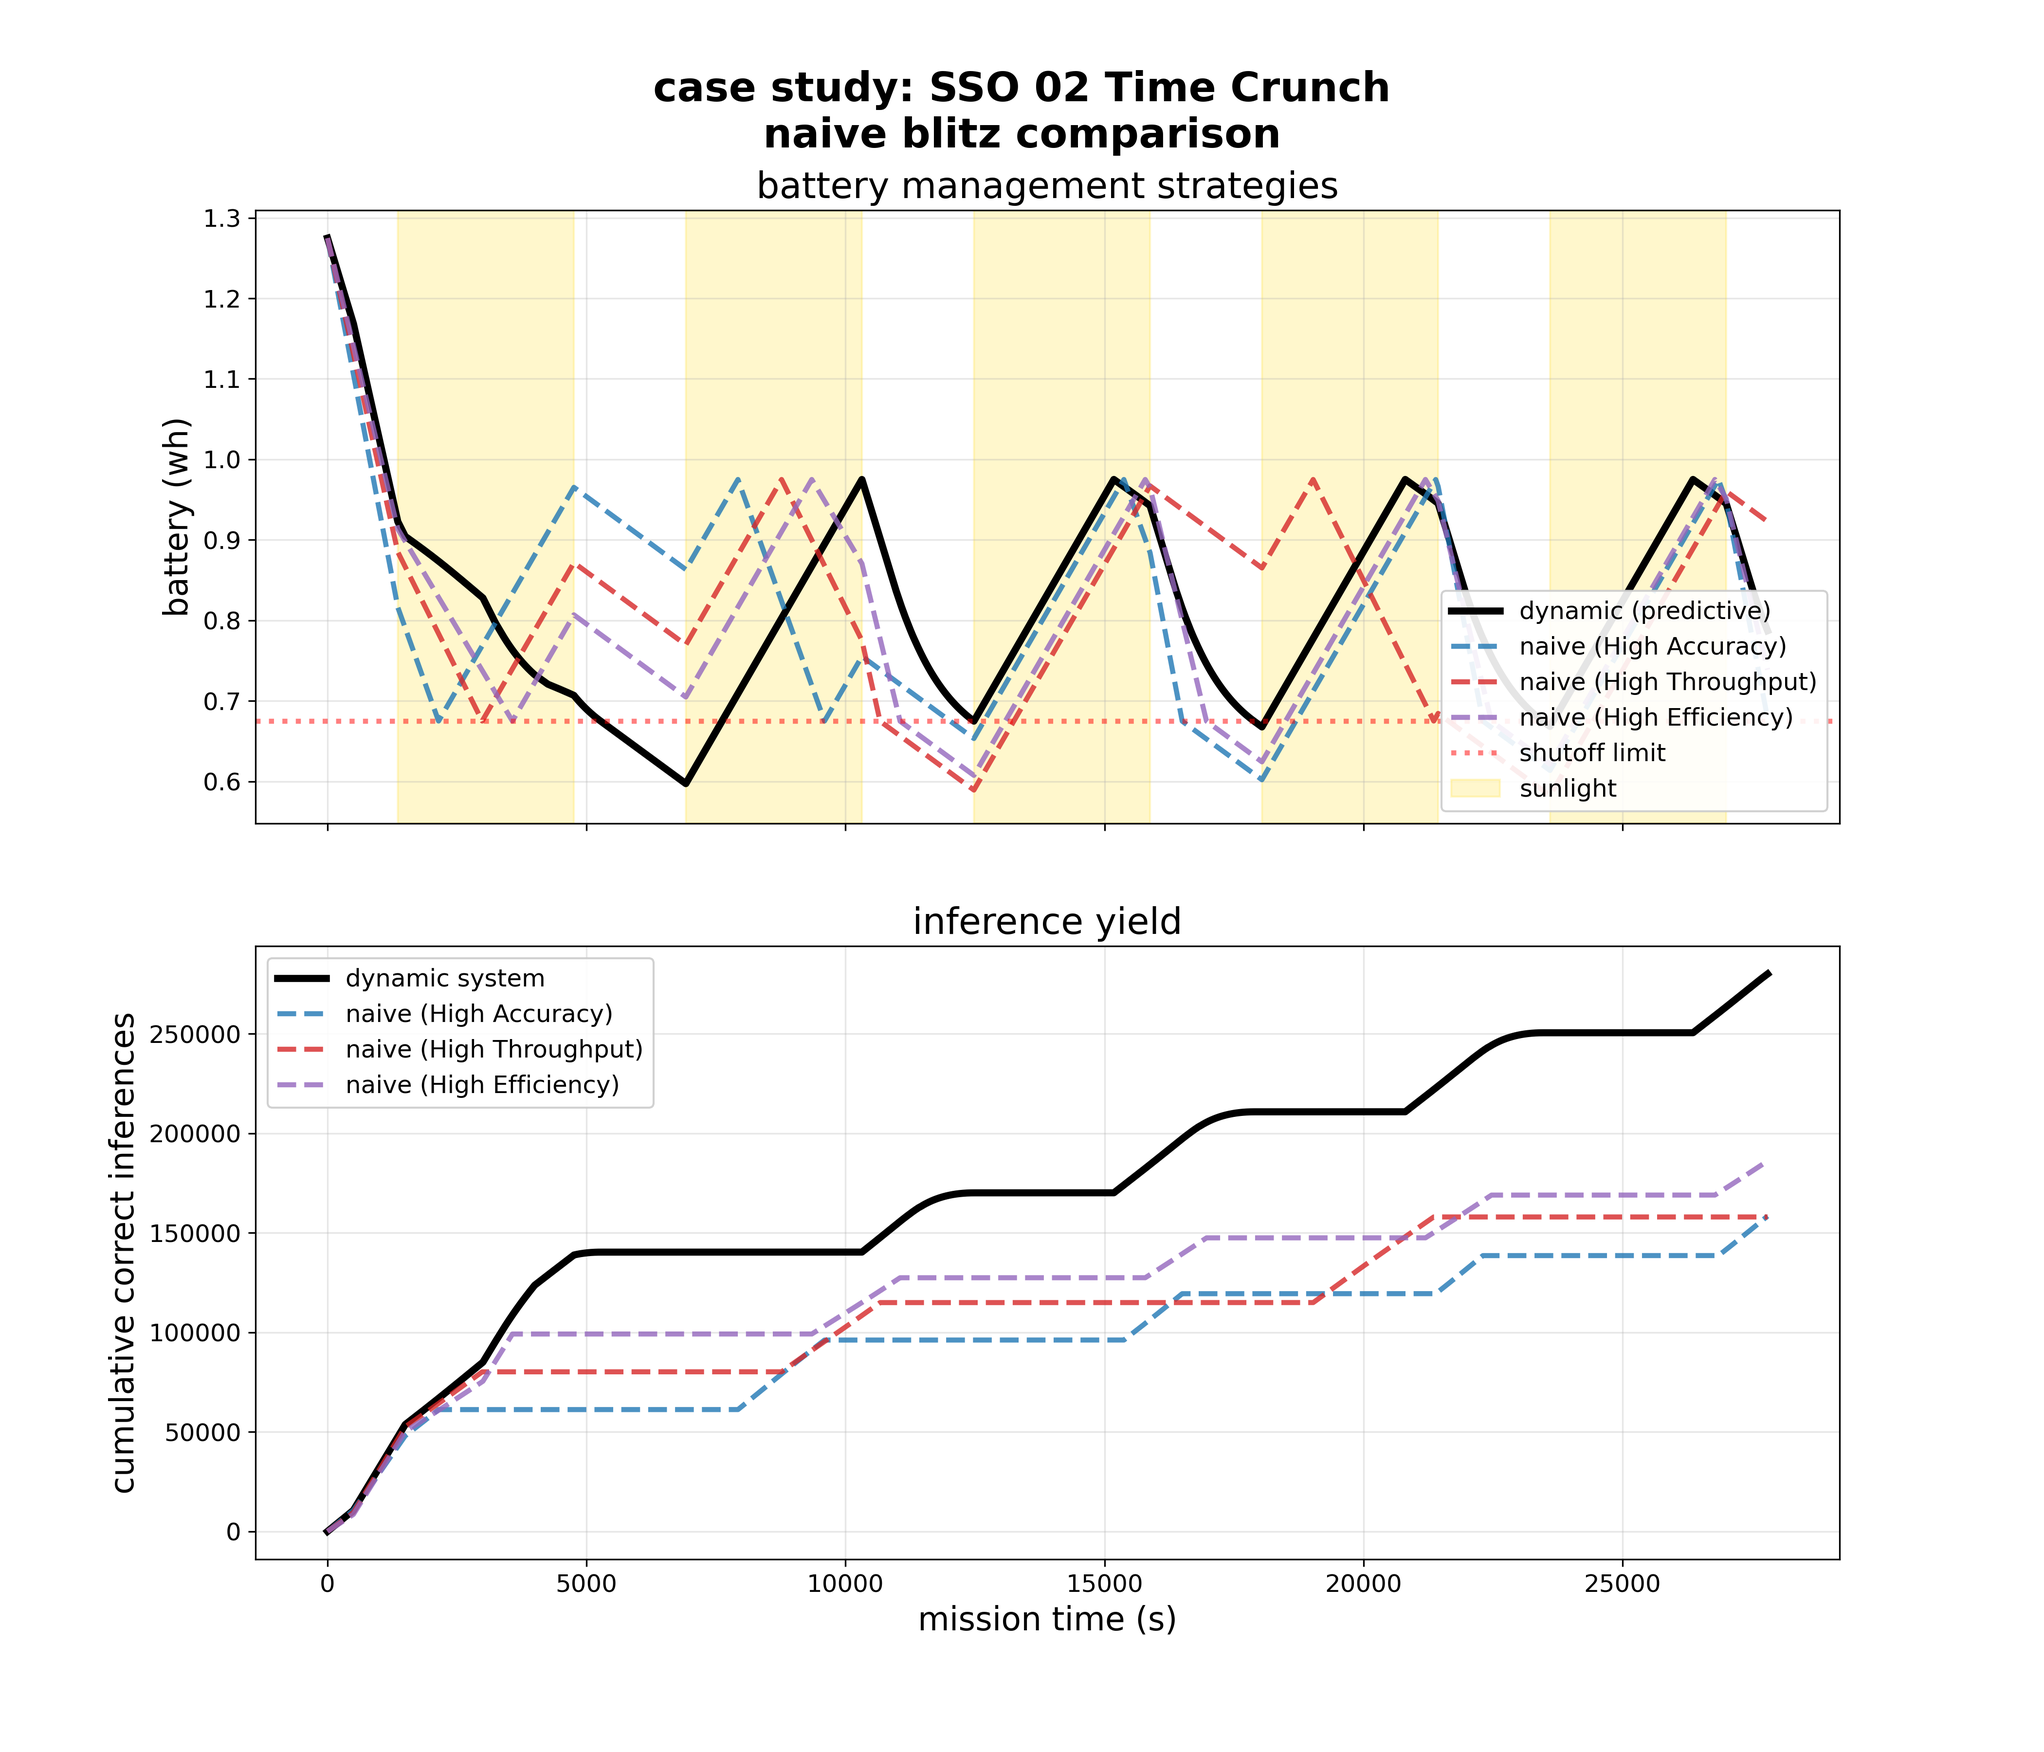
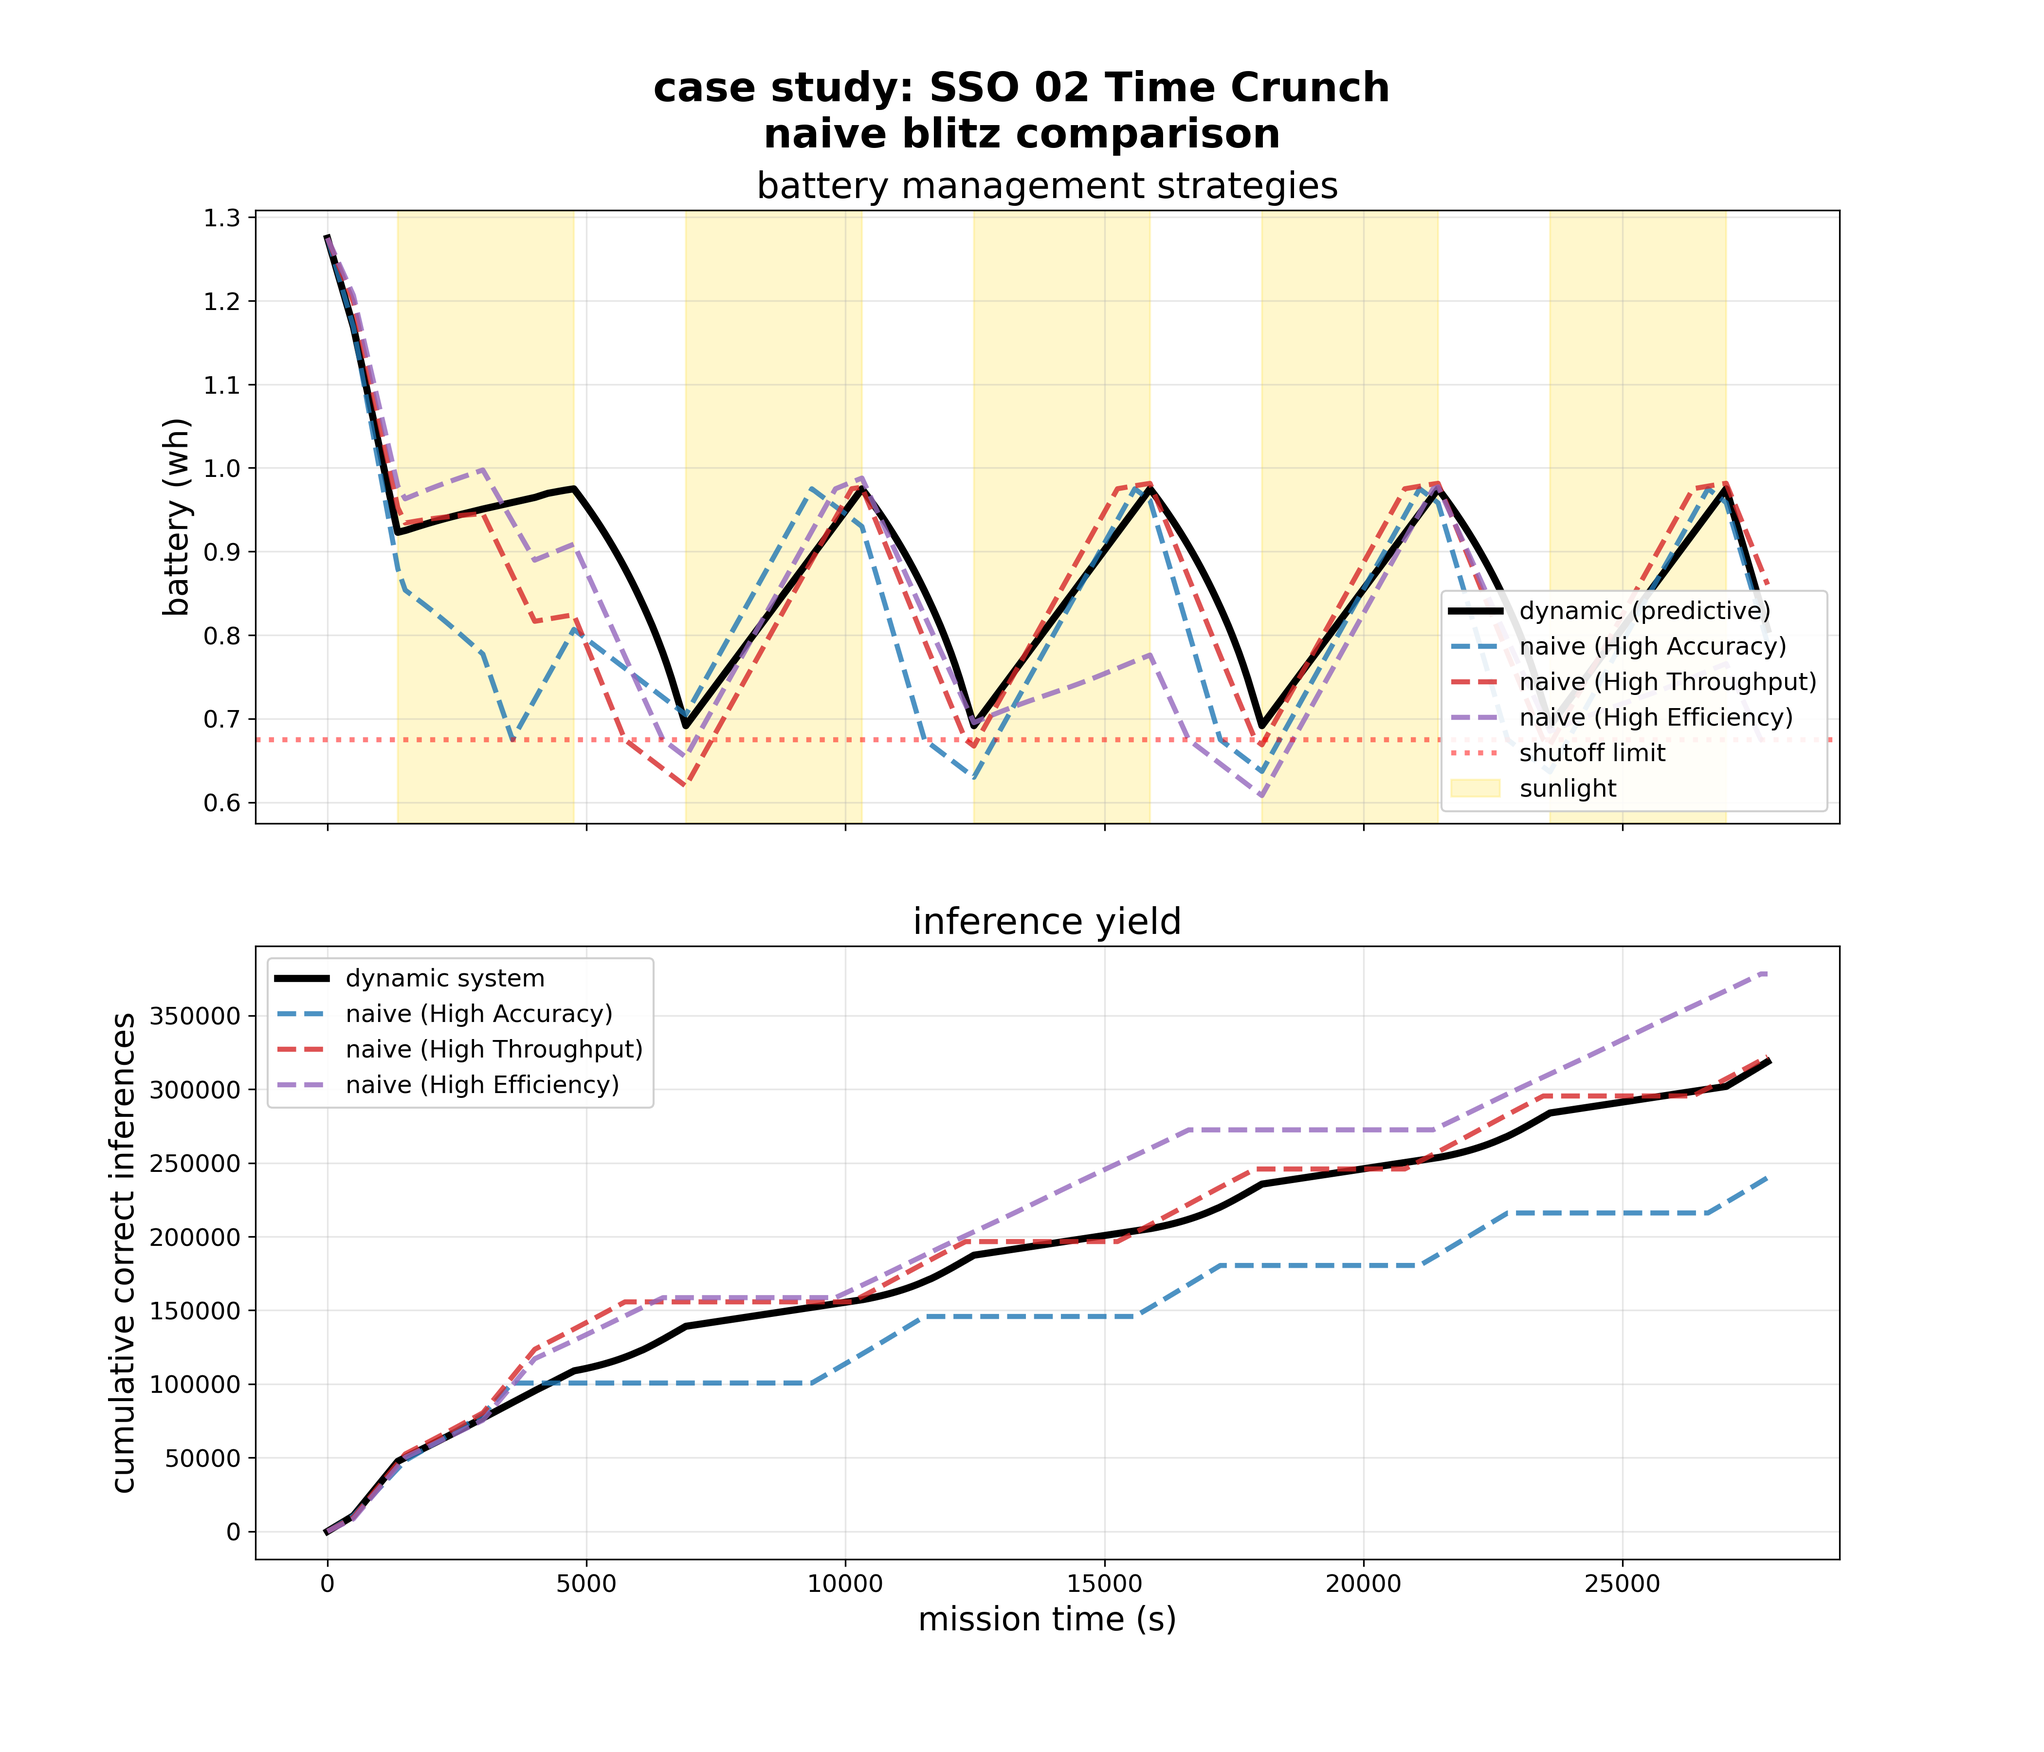
[scripts] Static deployments no longer naive. Re-enforced power horizon through STK eclipse data and predicted energy harvesting.

diff --git a/src/scripts/dynamic_selection_sims/selection_case_studies.py b/src/scripts/dynamic_selection_sims/selection_case_studies.py
@@ -40,7 +40,7 @@ class ContinuousSatSim:
         'high_alt_target_km': 200.0, 
         'high_alt_min_px': 2,        
         
-        'initial_charge_pct': 0.85,
+        'initial_charge_pct': 0.55,
         'compute_enable_pct': 0.65,
         'compute_disable_pct': 0.45,
         
@@ -119,9 +119,9 @@ class ContinuousSatSim:
             best_idx = expected_correct.idxmax()
             best_model = viable_models.loc[best_idx]
             return best_model, "partial_frame"
+        
 
-    def _get_step_conditions(self, t_rel, dt, row, cfg, events, current_battery_j, limit_disable_j):
-        # calculate the current environment and budget logic for this timestep
+    def _get_step_conditions(self, t_rel, t_abs, dt, row, cfg, events, current_battery_j, limit_disable_j, limit_enable_j):
         disturb_power_w = 0.0
         extra_demand_ips = 0.0
         cpu_blocked = False
@@ -141,18 +141,35 @@ class ContinuousSatSim:
         
         infs_for_this_second = (row['demand_infs_per_sec'] + extra_demand_ips) * dt
 
-        n = cfg['budget_horizon_frames']
-        surplus_j = max(0.0, current_battery_j - limit_disable_j)
-        battery_alloc_j = surplus_j / n if n > 1e-6 else surplus_j
+        # calculate time remaining in the current sunlight/eclipse phase
+        phase_end_time = row['phase_end_time']
+        t_rem = max(dt, phase_end_time - t_abs)
         
+        # set target battery levels based on the current phase
+        if row['is_lit'] > 0.5:
+            target_j = limit_enable_j
+        else:
+            # eclipse target: limit + 5% 
+            target_j = limit_disable_j*1.01 #+ (base_w * 1.00 * t_rem)
+            
+        # integral prediction
         net_power_w = solar_w - base_w
-        step_incoming_j = max(0.0, net_power_w * dt)
-        step_energy_budget_j = min(battery_alloc_j + step_incoming_j, surplus_j)
+        expected_end_battery_j = current_battery_j + (net_power_w * t_rem)
+        usable_surplus_j = expected_end_battery_j - target_j
+        
+        # divvy up the bucket across the remaining frames
+        if usable_surplus_j > 0:
+            step_energy_budget_j = (usable_surplus_j / t_rem) * dt
+        else:
+            step_energy_budget_j = 0.0
+            
+        # physically bound the budget so it can't overdraw the current instant surplus
+        hard_surplus_j = max(0.0, current_battery_j - limit_disable_j)
+        step_energy_budget_j = min(step_energy_budget_j, hard_surplus_j)
 
         return env_energy_j, base_w, infs_for_this_second, step_energy_budget_j, cpu_blocked
 
     def _process_dynamic_step(self, viable_models, infs_for_sec, step_budget_j, dt, cpu_blocked, dynamic_recharging):
-        # execute the dynamic model selection and calculate drops
         drops = {'power': 0.0, 'time': 0.0, 'energy': 0.0}
 
         if infs_for_sec <= 0:
@@ -189,33 +206,73 @@ class ContinuousSatSim:
                 
         proc_energy_j = processed_infs * model['eng_j']
         return active_model, current_acc, processed_infs, proc_energy_j, drops
+    
+    ## Continuous Time Naive Comparison
+
+    # def _process_naive_step(self, naive_states, env_energy_j, infs_for_sec, dt, cpu_blocked, limit_disable_j, limit_enable_j, bat_cap_j):
+    #     # execute all naive baselines for the current timestep
+    #     for name, ns in naive_states.items():
+    #         if ns['battery_j'] < limit_disable_j: 
+    #             ns['recharging'] = True
+    #         elif ns['recharging'] and ns['battery_j'] > limit_enable_j: 
+    #             ns['recharging'] = False
+            
+    #         if cpu_blocked or ns['recharging']:
+    #             ns['battery_j'] = np.clip(ns['battery_j'] + env_energy_j, 0, bat_cap_j)
+    #         else:
+    #             available_energy_j = max(0, ns['battery_j'] - limit_disable_j)
+    #             step_energy_demand_j = dt * ns['power_w']
+                
+    #             time_runnable_s = dt
+    #             if available_energy_j < step_energy_demand_j:
+    #                 time_runnable_s = available_energy_j / ns['power_w']
+    #                 ns['recharging'] = True 
+                
+    #             ns['battery_j'] -= (time_runnable_s * ns['power_w'])
+    #             potential_infs = time_runnable_s * ns['ips']
+    #             taken = min(potential_infs, infs_for_sec)
+                
+    #             ns['battery_j'] = np.clip(ns['battery_j'] + env_energy_j, 0, bat_cap_j)
+    #             ns['total_correct'] += taken * ns['model']['acc_decimal']
+            
+    #         ns['logs_battery_wh'].append(ns['battery_j'] / 3600.0)
+    #         ns['logs_cum_correct'].append(ns['total_correct'])
 
     def _process_naive_step(self, naive_states, env_energy_j, infs_for_sec, dt, cpu_blocked, limit_disable_j, limit_enable_j, bat_cap_j):
         # execute all naive baselines for the current timestep
         for name, ns in naive_states.items():
+            # Evaluate hysteresis state (same as dynamic)
             if ns['battery_j'] < limit_disable_j: 
                 ns['recharging'] = True
             elif ns['recharging'] and ns['battery_j'] > limit_enable_j: 
                 ns['recharging'] = False
             
-            if cpu_blocked or ns['recharging']:
+            # Check if we are physically capable of processing
+            if cpu_blocked or ns['recharging'] or infs_for_sec <= 0:
+                # Idle/Recharge: apply only environmental energy changes
                 ns['battery_j'] = np.clip(ns['battery_j'] + env_energy_j, 0, bat_cap_j)
             else:
-                available_energy_j = max(0, ns['battery_j'] - limit_disable_j)
-                step_energy_demand_j = dt * ns['power_w']
+                # Calculate inference limits
+                max_t_infs = dt * ns['ips']
                 
-                time_runnable_s = dt
-                if available_energy_j < step_energy_demand_j:
-                    time_runnable_s = available_energy_j / ns['power_w']
+                # Available energy before hitting the hard lock limit
+                available_energy_j = max(0.0, ns['battery_j'] - limit_disable_j)
+                max_e_infs = available_energy_j / ns['model']['eng_j']
+                
+                # We can only process up to the tightest constraint: demand, time, or energy
+                taken = min(infs_for_sec, max_t_infs, max_e_infs)
+                
+                # If we hit the energy barrier before finishing demand/time, we trigger a recharge lock
+                if taken == max_e_infs and taken < infs_for_sec:
                     ns['recharging'] = True 
                 
-                ns['battery_j'] -= (time_runnable_s * ns['power_w'])
-                potential_infs = time_runnable_s * ns['ips']
-                taken = min(potential_infs, infs_for_sec)
+                # Apply exact per-inference energy penalties
+                proc_energy_j = taken * ns['model']['eng_j']
                 
-                ns['battery_j'] = np.clip(ns['battery_j'] + env_energy_j, 0, bat_cap_j)
+                ns['battery_j'] = np.clip(ns['battery_j'] - proc_energy_j + env_energy_j, 0, bat_cap_j)
                 ns['total_correct'] += taken * ns['model']['acc_decimal']
             
+            # Log states
             ns['logs_battery_wh'].append(ns['battery_j'] / 3600.0)
             ns['logs_cum_correct'].append(ns['total_correct'])
 
@@ -237,6 +294,10 @@ class ContinuousSatSim:
 
         sim_data = interpolate_orbit(self.raw_orbit, self.sunlight_intervals, cfg['sim_dt_s'], cfg)
         if sim_data.empty: return
+
+        sim_data['is_lit_bool'] = sim_data['is_lit'] > 0.5
+        sim_data['phase_id'] = (sim_data['is_lit_bool'] != sim_data['is_lit_bool'].shift()).cumsum()
+        sim_data['phase_end_time'] = sim_data.groupby('phase_id')['Time (EpSec)'].transform('max')
 
         naive_configs = {
             'High_Accuracy': viable_models.loc[viable_models['acc_decimal'].idxmax()],
@@ -283,21 +344,21 @@ class ContinuousSatSim:
 
         for i, row in sim_data.iterrows():
             t_rel = row['Time (EpSec)'] - t_start
+            t_abs = row['Time (EpSec)']
             dt = cfg['sim_dt_s']
             
-            # get environmental conditions and constraints
+            # pass t_abs and limit_enable_j into the conditions check
             env_energy_j, base_w, infs_for_sec, step_budget_j, cpu_blocked = self._get_step_conditions(
-                t_rel, dt, row, cfg, events, current_battery_j, limit_disable_j
+                t_rel, t_abs, dt, row, cfg, events, current_battery_j, limit_disable_j, limit_enable_j
             )
             report_stats['total_demand_infs'] += infs_for_sec
 
-            # check power lock hysteresis
             if current_battery_j < limit_disable_j:
                 dynamic_recharging = True
             elif dynamic_recharging and current_battery_j > limit_enable_j:
                 dynamic_recharging = False
 
-            # process the dynamic model
+            # run dynamic step
             active_model, acc, processed, proc_energy_j, drops = self._process_dynamic_step(
                 viable_models, infs_for_sec, step_budget_j, dt, cpu_blocked, dynamic_recharging
             )
@@ -337,8 +398,8 @@ class ContinuousSatSim:
         
         plot_orbit_dynamics(logs, case_name, self.output_dir)
         plot_mission(logs, naive_states, case_name, cfg, self.output_dir,
-                    plot_accuracy_baseline=True, 
-                    plot_efficiency_baseline=False, 
+                    plot_accuracy_baseline=False, 
+                    plot_efficiency_baseline=True, 
                     plot_throughput_baseline=False)
         plot_naive_blitz(logs, naive_states, case_name, cfg, self.output_dir)
         
@@ -401,7 +462,7 @@ if __name__ == "__main__":
     orbit_path = ROOT_DIR / "data/stk"
     out_dir = ROOT_DIR / "results/case_studies"
 
-    sim_sso = ContinuousSatSim(orbit_path, model_json, out_dir, sat_prefix='SSO', num_orbits=5)
+    sim_sso = ContinuousSatSim(orbit_path, model_json, out_dir, sat_prefix='SSO', num_orbits=30)
     sso_cfg = ContinuousSatSim.get_sso_config()
     
     sim_sso.run_case_study("SSO_01_Baseline", config_overrides=sso_cfg, events=None)

diff --git a/src/scripts/dynamic_selection_sims/SSO_Cases.py b/src/scripts/dynamic_selection_sims/SSO_Cases.py
@@ -33,24 +33,24 @@ if __name__ == "__main__":
     sim_sso.run_case_study("SSO_01_Baseline", config_overrides=sso_cfg, events=None)
 
 
-    burst_events = [
-        {'start': 500, 'duration': 1000, 'extra_demand_ips': 200.0},
-        {'start': 3000, 'duration': 1000, 'extra_demand_ips': 200.0},
-    ]
-    sim_sso.run_case_study("SSO_02_Time_Crunch", config_overrides=sso_cfg, events=burst_events)
+    # burst_events = [
+    #     {'start': 500, 'duration': 1000, 'extra_demand_ips': 200.0},
+    #     {'start': 3000, 'duration': 1000, 'extra_demand_ips': 200.0},
+    # ]
+    # sim_sso.run_case_study("SSO_02_Time_Crunch", config_overrides=sso_cfg, events=burst_events)
 
-    drain_events = [
-        {'start': 1000, 'duration': 1500, 'power_w': 0.5},
-    ]
-    sim_sso.run_case_study("SSO_03_Power_Starved", config_overrides=sso_cfg, events=drain_events)
+    # drain_events = [
+    #     {'start': 1000, 'duration': 1500, 'power_w': 0.5},
+    # ]
+    # sim_sso.run_case_study("SSO_03_Power_Starved", config_overrides=sso_cfg, events=drain_events)
 
-    strict_cfg = sso_cfg.copy()
-    strict_cfg['hard_min_infs'] = 70.0 
-    sim_sso.run_case_study("SSO_04_Strict_Limits", config_overrides=strict_cfg, events=None)
+    # strict_cfg = sso_cfg.copy()
+    # strict_cfg['hard_min_infs'] = 70.0 
+    # sim_sso.run_case_study("SSO_04_Strict_Limits", config_overrides=strict_cfg, events=None)
 
-    events = [
-        {'start': 2000, 'duration': 1000, 'power_w': 0.4},                     
-        {'start': 2500, 'duration': 200, 'extra_demand_ips': 150.0},           
-        {'start': 2600, 'duration': 50, 'power_w': 0.0, 'blocked': True},     
-    ]
-    sim_sso.run_case_study("SSO_05_Perfect_Storm", config_overrides=strict_cfg, events=events)
+    # events = [
+    #     {'start': 2000, 'duration': 1000, 'power_w': 0.4},                     
+    #     {'start': 2500, 'duration': 200, 'extra_demand_ips': 150.0},           
+    #     {'start': 2600, 'duration': 50, 'power_w': 0.0, 'blocked': True},     
+    # ]
+    # sim_sso.run_case_study("SSO_05_Perfect_Storm", config_overrides=strict_cfg, events=events)

diff --git a/src/scripts/dynamic_selection_sims/plotting_utils.py b/src/scripts/dynamic_selection_sims/plotting_utils.py
@@ -155,7 +155,7 @@ def plot_mission(logs, naive_states, case_name, cfg, output_dir,
         ax2_t.legend(handles, labels, loc='upper center', bbox_to_anchor=(0.5, -0.15), 
                     ncol=ncol, frameon=False, title="Performance & Active Models")
         
-    save_path = output_dir / f"{case_name}_telemetry.png"
+    save_path = output_dir / f"{case_name}_STATIC.png"
     plt.savefig(save_path, dpi=300, bbox_inches='tight')
     plt.close()
 
